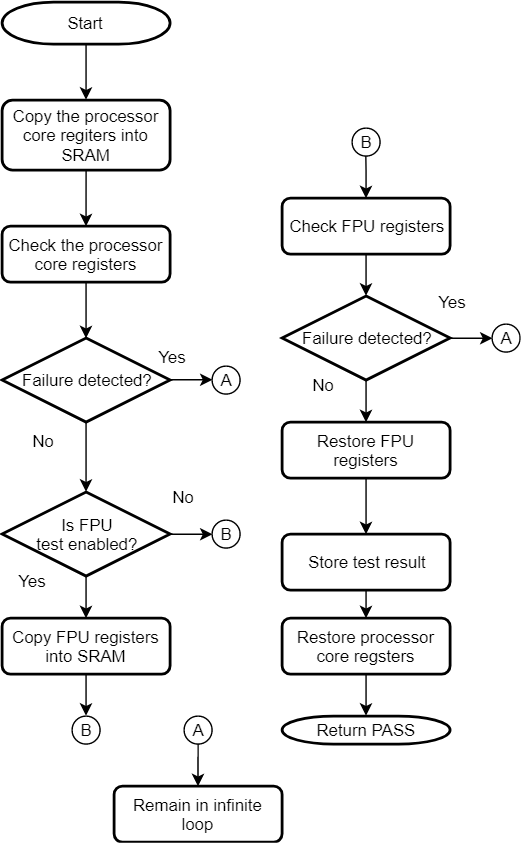
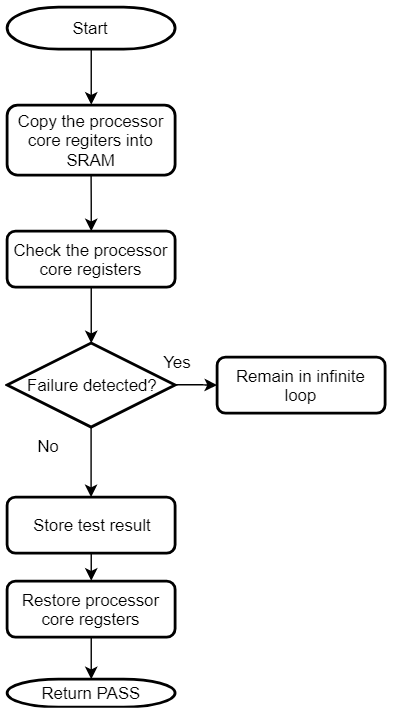
[Class B Doc] Updated documentation. Added FPU test details. MH3-44509

diff --git a/docs/sam_e5x_d5x/docs/usage.md b/docs/sam_e5x_d5x/docs/usage.md
@@ -73,6 +73,12 @@ RSTs can be used by the application during run-time to check safe operation of d
 in the microcontroller. These tests are non-destructive. In the case of run-time tests, the application
 shall decide which test to execute when.
 
+**Note**
+Disable IRQs before running self-test for SRAM or CPU clock.
+Interrupting SRAM test can result in unexpected variable values if the test has been running on the
+SRAM area used by the application. Interrupting clock test can result in incorrect test results since
+the test is timing dependent.
+
 
 ## Components in the Library
 
@@ -125,11 +131,10 @@ Generic Flow of Non-Critical Tests
 ## CPU Registers
 
 The ARM® Cortex®-M4F is the CPU on the SAM D5x/E5x devices. The Class B library checks the processor
-core registers and FPU registers for stuck-at faults. The stuck-at condition causes
+core registers for stuck-at faults. The stuck-at condition causes
 register bit to remain at logic 0 or logic 1. Code execution should be stopped if this error condition
 is detected in any of the CPU registers.
 
-Testing FPU registers is optional as it is needed only if the FPU is used in the application.
 This self-test follows the register save/restore convention specified by AAPCS.
 It can be used at startup as well as run-time. The Program Counter (PC) self-test is designed
 as a separate test since this register cannot be checked with usual test data patterns.
@@ -152,6 +157,21 @@ the Program Counter is assumed to be working fine. This self-test can be used at
 Flow chart of the self-test for Program Counter (PC)
 
 ![](./images/DD_PC_TEST.png)
+
+
+## FPU Registers
+
+The Class B library checks the FPU registers for stuck-at faults. The stuck-at condition causes
+register bit to remain at logic 0 or logic 1. Code execution should be stopped if this error condition
+is detected in any of the FPU registers.
+
+Testing FPU registers is optional as it is needed only if the FPU is used in the application.
+This self-test follows the register save/restore convention specified by AAPCS.
+It can be used at startup as well as run-time.
+
+Flow chart of the self-test for CPU registers
+
+![](./images/DD_Test_FPU.png)
 
 
 ## Flash
@@ -211,7 +231,9 @@ The clock self-test can be used at startup as well as run-time.
 1. This self-test uses the RTC peripheral. Thus, if it is used during run-time, the RTC shall not
 be used by the application for continuous modes such as real time clock or calendar. If the RTC is used
 for some other purpose, it must be reconfigured after running the clock self-test.
-2. Keep the clock test duration lesser than the WDT timeout period, to avoid the WDT resetting the device.
+2. This self-test configures XOSC32K to clock the RTC. If the application cannot afford to reconfigure
+the XOSC32K, this self-test cannot not be used during run-time.
+3. Keep the clock test duration lesser than the WDT timeout period, to avoid the WDT resetting the device.
 
 Flow chart of the self-test for CPU clock frequency
 

diff --git a/docs/sam_e5x_d5x/docs/configuration.md b/docs/sam_e5x_d5x/docs/configuration.md
@@ -46,6 +46,10 @@ In `CLASSB_Startup_Tests`, before performing startup self-tests, the WDT timeout
 This timing can be adjusted based on the number of self-tests run during startup.
 If any of these self-tests takes more time than the WDT timeout period, it results in a WDT reset.
 Thus, properly configuring the WDT period is essential during startup.
+If all of the self-tests pass during startup, then the Class B library startup resets the device.
+When execution reaches the main() function, the WDT configuration will be same as that in the fuses.
+So the WDT should be configured via fuses, as needed by the application.
+The WDT timeout should be larger than the time taken by any of the self-tests used during run-time.
 
 ![](./images/WDT_STARTUP_A.png)
 ![](./images/WDT_STARTUP_B.png)
